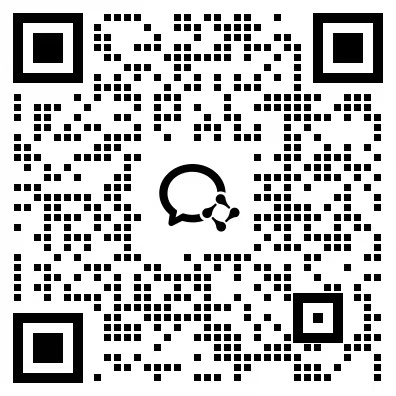
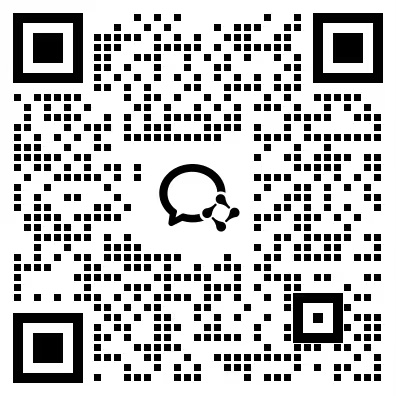
更新交流群二维码并刷新缓存

diff --git a/docs/.vitepress/theme/components/GroupQrMenu.vue b/docs/.vitepress/theme/components/GroupQrMenu.vue
@@ -13,7 +13,7 @@ withDefaults(
   <figure class="wb-group-qr" :class="{ 'is-screen-menu': screenMenu }">
     <div class="wb-group-qr__frame">
       <img
-        src="/community/workbuddy-wechat-group.jpg?v=20260726"
+        src="/community/workbuddy-wechat-group.jpg?v=20260731"
         width="396"
         height="396"
         alt="WorkBuddy 微信交流群二维码"
